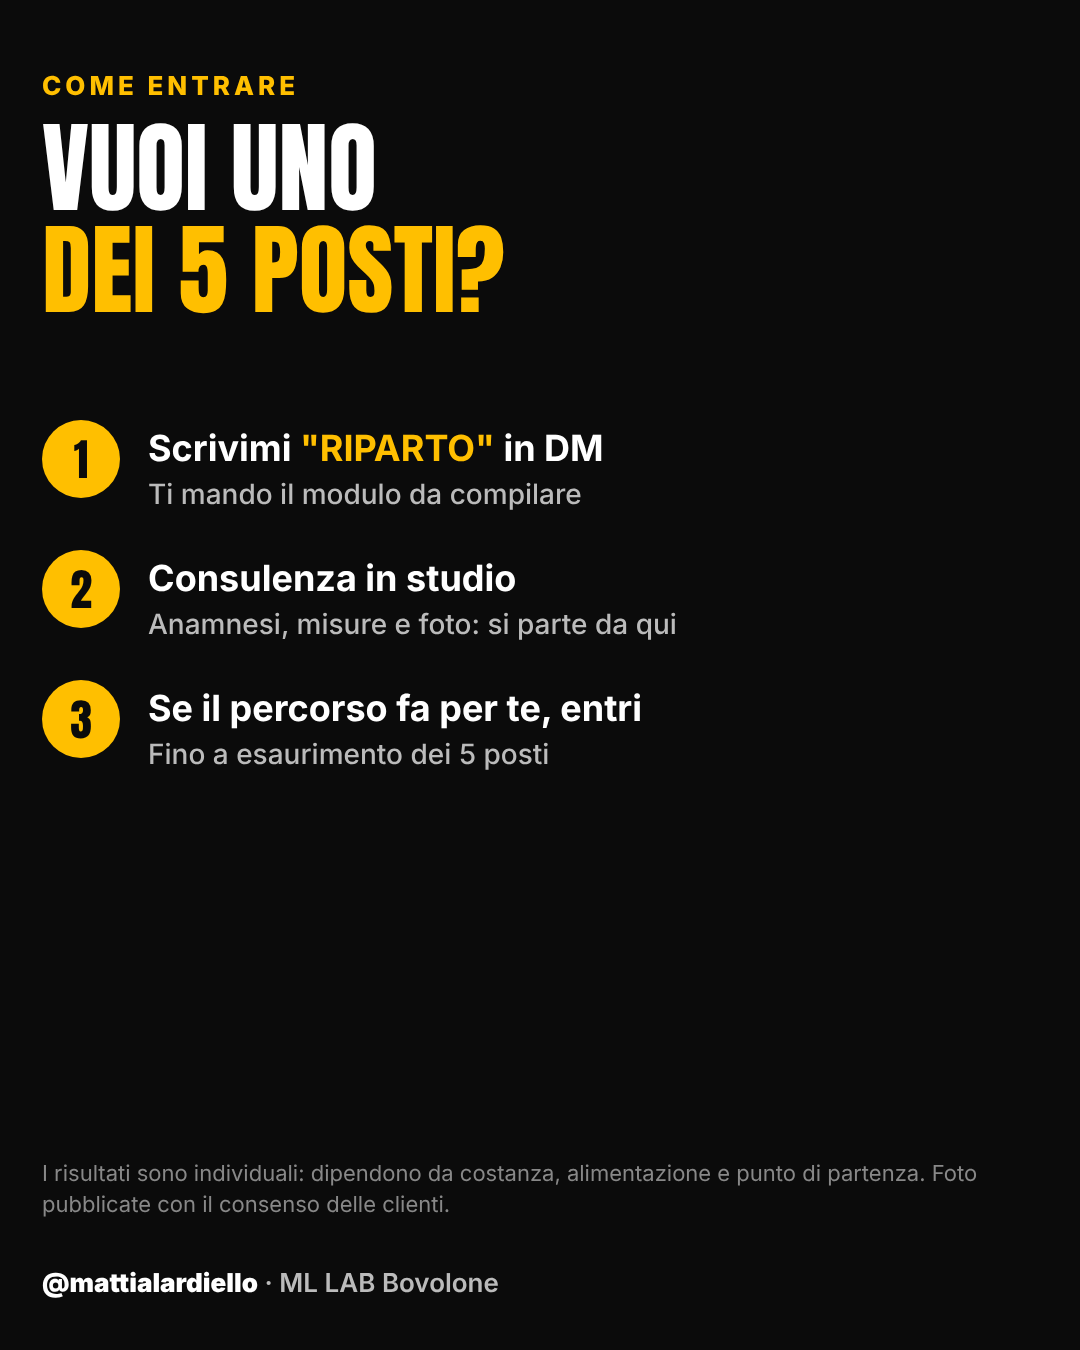
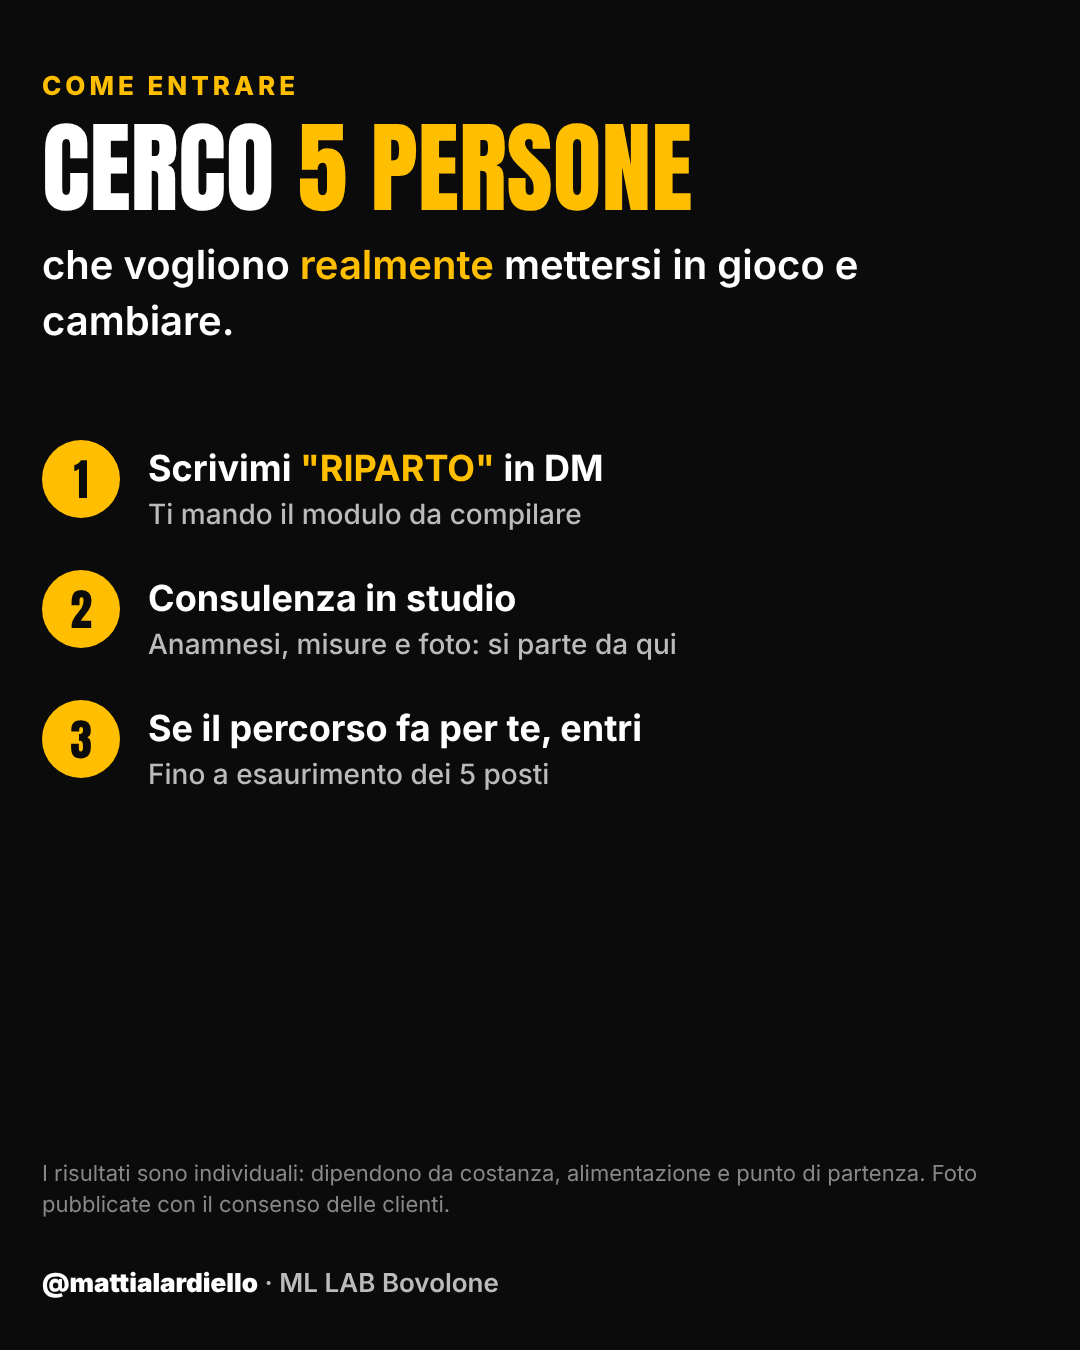
Lancio coaching: slide finale 'Cerco 5 persone'
Claude-Session: https://claude.ai/code/session_014pNAwoV69TZpDWEUzr7pF6

Changed region(s): [[0.0306, 0.3111, 0.6417, 0.5911], [0.0306, 0.0933, 0.7944, 0.2489]]

diff --git a/contenuti-instagram/README.md b/contenuti-instagram/README.md
@@ -147,7 +147,7 @@ Nei DM / nel modulo indicare chiaramente che la consulenza è a pagamento, prima
 > 3 clienti. 3 percorsi. Nessuna scheda uguale.
 > Ed è proprio per questo che apro il mio nuovo **coaching esclusivo: solo 5 posti.** 🔒
 > Pochi posti per una ragione: seguirti davvero, una persona alla volta. In studio a Bovolone e anche online, con un percorso costruito su di te.
-> Come entrare 👇
+> **Cerco 5 persone che vogliono realmente mettersi in gioco e cambiare.** Come entrare 👇
 > 1⃣ Scrivimi **RIPARTO** in DM e ti mando il modulo
 > 2⃣ Consulenza in studio: anamnesi, misure e foto
 > 3⃣ Se il percorso fa per te, entri. Fino a esaurimento dei 5 posti.
